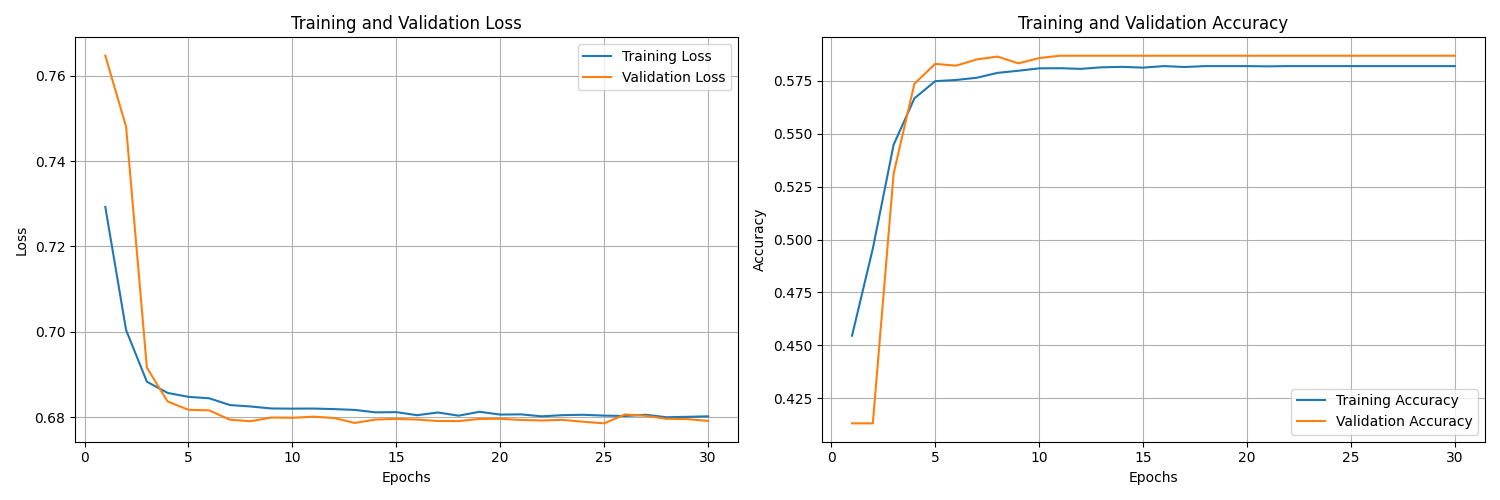
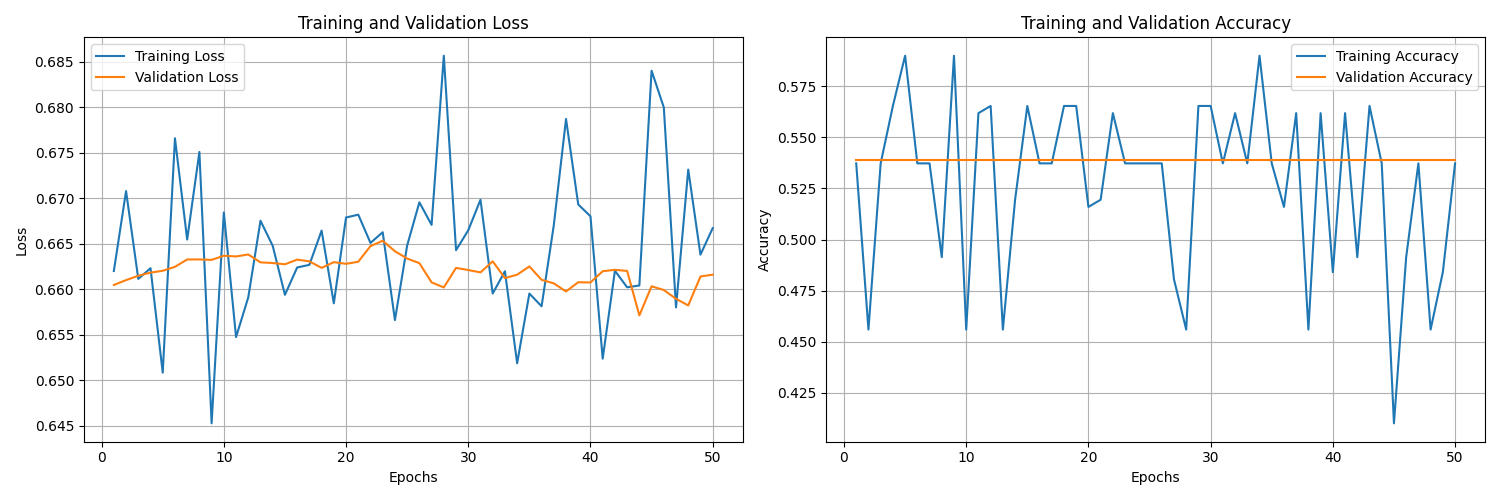
to-do list

diff --git a/NN_with_torch.py b/NN_with_torch.py
@@ -7,6 +7,7 @@ from torch.utils.data import Dataset, DataLoader
 from torchvision import datasets, transforms
 import tqdm
 import matplotlib.pyplot as plt
+import matplotlib.patches as mpatches
 import numpy as np
 import os
 import cv2
@@ -55,19 +56,20 @@ class CustomDataset(Dataset):
 
 # Define the neural network architecture
 class NeuralNetwork(nn.Module):
-    def __init__(self, num_classes, channels, strides):
+    def __init__(self, channels, strides):
         
         # Call the parent class constructor
         super(NeuralNetwork, self).__init__()
         
         # ReLU activation function
-        self.relu = nn.ReLU()
+        # relu6? ##########################################################################################################################
+        self.relu6 = nn.ReLU6()
   
         # Dropout layer to prevent overfitting
         self.dropout = nn.Dropout(0.2)
         
         # intial convolutional layer, followed by batch normalization
-        # the input is a 3-channel image (RGB), and the output is 32 channels (filters)
+        # out cghannels? ###########################################################
         self.conv_init = nn.Conv2d(in_channels=3, out_channels=32, kernel_size=5, stride=2, padding=2)
         self.bn_init = nn.BatchNorm2d(32)
         
@@ -84,7 +86,7 @@ class NeuralNetwork(nn.Module):
         # The depthwise convolution applies a single filter to each input channel, while the pointwise convolution combines the outputs of the depthwise convolution.
         
         # network architecture after initial convolution and final fully connected layer
-        in_channels = 32
+        in_channels = 32 ###################################################################################################################
         for i, (out_channels, stride) in enumerate(zip(channels, strides)):
             
             # Depthwise convolution (separable by channel), followed by batch normalization
@@ -98,9 +100,10 @@ class NeuralNetwork(nn.Module):
             in_channels = out_channels
         
         # Max pooling
+        # in teoria meglio per di avg pooling #####################################################################################################
         self.max_pool = nn.MaxPool2d(kernel_size=2, stride=2)
         
-        # Final layer that maps to the mask (80x80)
+        # Final layer that maps to the mask (80x80) dovrebbe essere ok ##############################################################################
         self.final_conv = nn.Conv2d(in_channels, 1, kernel_size=1)
     
     # forward method defines the flow of data through the network
@@ -110,7 +113,7 @@ class NeuralNetwork(nn.Module):
         # Initial convolution (layer 1)
         x = self.conv_init(x)
         x = self.bn_init(x)
-        x = self.relu(x)
+        x = self.relu6(x)
     
         # Iterate through the depthwise and pointwise convolution layers
         for i in range(len(self.dw_conv_layers)):
@@ -118,17 +121,18 @@ class NeuralNetwork(nn.Module):
             # Depthwise convolution
             x = self.dw_conv_layers[i](x)
             x = self.dw_bn_layers[i](x)
-            x = self.relu(x)
+            x = self.relu6(x)
             
             # Pointwise convolution
             x = self.pw_conv_layers[i](x)
             x = self.pw_bn_layers[i](x)
-            x = self.relu(x)
+            x = self.relu6(x)
             
             # Apply dropout for regularization
             x = self.dropout(x)
         
-        # Global average pooling and reshape to [batch_size, num_classes]
+        # Global average pooling and reshape 
+        # ok ridimensionamento così? ########################################################################################################
         x = nn.functional.interpolate(x, size=(80, 80), mode="bilinear", align_corners=False)  # Ensure output matches 80x80 label dimensions
         
         # Map to the correct number of output classes
@@ -191,16 +195,21 @@ def train_model(model, train_loader, val_loader, criterion, optimizer, num_epoch
             # accumulate the loss for the current batch
             running_loss += loss.item() * inputs.size(0)
             
-            # get the predicted class with the highest score
-            _, predicted = torch.max(outputs.data, 1) # _ is the max value, predicted is the index of the max value
+            # da sistemare ###########################################################################################################
             
-            total += labels.size(0)
-            correct += (predicted == labels).sum().item()       
-            epoch_loss = running_loss / len(train_loader.dataset)
-            epoch_acc = correct / total
+            # Pixel-wise accuracy for binary mask
+            preds = (torch.sigmoid(outputs) > 0.5).float()
+            labels_bin = (labels > 0.5).float()
+            correct += (preds == labels_bin).float().sum().item()
+            total += labels.numel()
             
-            # Update tqdm description with current metrics
-            train_loop.set_description(f"Epoch {epoch+1}/{num_epochs} (Train) Loss: {epoch_loss:.4f}, Acc: {epoch_acc:.4f}")
+            # fino qui ###########################################################################################################
+        
+        epoch_loss = running_loss / len(train_loader.dataset)
+        epoch_acc = correct / total
+        
+        # Update tqdm description with current metrics
+        train_loop.set_description(f"Epoch {epoch+1}/{num_epochs} (Train) Loss: {epoch_loss:.4f}, Acc: {epoch_acc:.4f}")
         
         
         # Validation phase
@@ -227,11 +236,17 @@ def train_model(model, train_loader, val_loader, criterion, optimizer, num_epoch
                 outputs = model(inputs)
                 loss = criterion(outputs, labels)
                 
+                # come prima ##################################################################################################################
+                
                 # Compute the statistics
                 val_loss += loss.item() * inputs.size(0)
-                _, predicted = torch.max(outputs.data, 1)
-                val_total += labels.size(0)
-                val_correct += (predicted == labels).sum().item()
+                # Pixel-wise accuracy for binary mask
+                preds = (torch.sigmoid(outputs) > 0.5).float()
+                labels_bin = (labels > 0.5).float()
+                # fino qui ###################################################################################################################
+
+                val_correct += (preds == labels_bin).float().sum().item()
+                val_total += labels.numel()
             
             val_loss /= len(val_loader.dataset)
             val_acc = val_correct / val_total
@@ -286,72 +301,84 @@ def plot_metrics(train_losses, val_losses, train_accs, val_accs, epochs):
     plt.tight_layout()
     plt.savefig('training_metrics.png')
     plt.show()
-
+    
+     
+    # Da capire se funziona correttamente ##########################################################################################################      
+    
 # plot the image and the prediction
-def plot_prediction(image, actual_label, predicted_label, class_names=None):
+def plot_prediction(image, actual_mask, predicted_mask):
     
-    # Convert image tensor to numpy and denormalize
-    image = image.cpu().squeeze().permute(1, 2, 0).numpy()
+    # Plots the input image, the ground truth mask, and an overlay of ground truth and predicted masks.
+    # Ground truth mask is shown in green, predicted mask in red, and overlap in yellow.
     
-    # Denormalize from [-1, 1] to [0, 1]
-    image = (image * 0.5 + 0.5).clip(0, 1)
-    
-    plt.figure(figsize=(6, 6))
-    plt.imshow(image)
-    
-    # Get class names if available
-    actual_class = f"Class {actual_label}" if class_names is None else class_names[actual_label]
-    predicted_class = f"Class {predicted_label}" if class_names is None else class_names[predicted_label]
-    
-    title = f"Actual: {actual_class}\nPredicted: {predicted_class}"
-    plt.title(title)
-    plt.axis('off')
+    # Prepare image
+    img = image.cpu().squeeze().permute(1, 2, 0).numpy()
+    img = (img * 0.5 + 0.5).clip(0, 1)
+
+    # Prepare masks
+    gt_mask = actual_mask.cpu().squeeze().numpy()
+    pred_mask = predicted_mask.cpu().squeeze().numpy()
+
+    # Ensure masks are binary
+    gt_mask = (gt_mask > 0.5).astype(np.uint8)
+    pred_mask = (pred_mask > 0.5).astype(np.uint8)
+
+    # Overlay: green for GT, red for pred, yellow for overlap
+    overlay = np.zeros((*gt_mask.shape, 3), dtype=np.float32)
+    overlay[(gt_mask == 1) & (pred_mask == 0)] = [0, 1, 0]      # Green: GT only
+    overlay[(gt_mask == 0) & (pred_mask == 1)] = [1, 0, 0]      # Red: Pred only
+    overlay[(gt_mask == 1) & (pred_mask == 1)] = [1, 1, 0]      # Yellow: Overlap
+
+    fig, axs = plt.subplots(1, 3, figsize=(15, 5))
+    axs[0].imshow(img)
+    axs[0].set_title("Input Image")
+    axs[0].axis('off')
+
+    axs[1].imshow(gt_mask, cmap='Greens', alpha=0.7)
+    axs[1].set_title("Ground Truth Mask")
+    axs[1].axis('off')
+
+    axs[2].imshow(img, alpha=0.7)
+    axs[2].imshow(overlay, alpha=0.5)
+    axs[2].set_title("Overlay: GT (Green), Pred (Red), Overlap (Yellow)")
+    axs[2].axis('off')
+
+    # Legend
+    green_patch = mpatches.Patch(color='green', label='Ground Truth')
+    red_patch = mpatches.Patch(color='red', label='Prediction')
+    yellow_patch = mpatches.Patch(color='yellow', label='Overlap')
+    axs[2].legend(handles=[green_patch, red_patch, yellow_patch], loc='lower right')
+
+    plt.tight_layout()
     plt.show()
+    
+    # Fino qui ##########################################################################################################
+
 
 
 # Main execution
 def main():
     
-    
-    # Define Dice Loss function
-    class DiceLoss(nn.Module):
-        
-        def __init__(self):
-            super(DiceLoss, self).__init__()
-    
-        def forward(self, outputs, targets):
-            
-            # Apply sigmoid to outputs
-            outputs = torch.sigmoid(outputs)  
-            
-            # Ensure outputs and targets have the same shape
-            targets = targets.view_as(outputs)  # Reshape targets to match outputs
-            intersection = (outputs * targets).sum()
-            smooth = 1.0
-            dice = (2.0 * intersection + smooth) / (outputs.sum() + targets.sum() + smooth)
-            return 1 - dice
-    
-    
     # Hyperparameters
-    num_classes = 2
-    batch_size = 64
-    learning_rate = 1e-3
-    num_epochs = 10
+    
+    batch_size = 2
+    learning_rate = 1e-4
+    num_epochs = 50
     
     ################################################################################################
     
     # Channel configuration for each block
     # Encoder path (increasing channels, decreasing spatial dimensions)
-    encoder_channels = [16, 32, 64, 128, 256, 512]  # Added more layers for a deeper encoder
-    encoder_strides = [2, 2, 2, 2, 2, 2]  # Added strides for the deeper encoder
+    encoder_channels = [16, 32, 64, 128]  # Added more layers for a deeper encoder
+    encoder_strides = [2, 2, 2, 2]  # Added strides for the deeper encoder
     
     # Bottleneck
-    bottleneck_channels = [512, 256]  # Added an additional bottleneck layer
-    bottleneck_strides = [1, 1]  # Added an additional stride for the deeper bottleneck
+    bottleneck_channels = [256]  # Added an additional bottleneck layer
+    bottleneck_strides = [1]  # Added an additional stride for the deeper bottleneck
            
     # Decoder path (decreasing channels)
-    decoder_channels = [512, 256, 128, 64, 32, 16]  # Added more layers for a deeper decoder
-    decoder_strides = [2, 2, 2, 2, 2, 2]  # Added strides for the deeper decoder
+    decoder_channels = [128, 64, 32, 16]  # Added more layers for a deeper decoder
+    decoder_strides = [2, 2, 2, 2]  # Added strides for the deeper decoder
      
     ################################################################################################# 
         
@@ -359,8 +386,11 @@ def main():
     channels = encoder_channels + bottleneck_channels + decoder_channels
     strides = encoder_strides + bottleneck_strides + decoder_strides
     
-    # Data loading and preprocessing, normalization reduces the com
+    # Scelgo trasformazioni ###########################################################################################à
     transform = transforms.Compose([
+        transforms.RandomHorizontalFlip(),
+        transforms.RandomRotation(degrees=20),
+        transforms.ColorJitter(brightness=0.2, contrast=0.2, saturation=0.2, hue=0.05),
         transforms.ToTensor(),
         transforms.Normalize((0.5, 0.5, 0.5), (0.5, 0.5, 0.5))  # RGB normalization
     ])
@@ -373,6 +403,14 @@ def main():
     # Load image and mask file paths
     img_files = sorted([os.path.join(img_dir, f) for f in os.listdir(img_dir) if f.endswith(".png")])
     mask_files = sorted([os.path.join(mask_dir, f) for f in os.listdir(mask_dir) if f.endswith(".png")])
+    
+    
+    # DEBUG         #######################################################################################################
+    # Limit data to a small subset for intentional overfitting
+    num_samples = 6  # Choose a small number (e.g., 4, 6, or 8)
+    img_files = img_files[:num_samples]
+    mask_files = mask_files[:num_samples]
+    
     
     # Ensure the number of images matches the number of masks
     assert len(img_files) == len(mask_files), "Mismatch between images and masks"
@@ -399,6 +437,7 @@ def main():
             mask = torch.tensor(mask, dtype=torch.float32).unsqueeze(0) / 255.0  # Normalize to [0, 1]
               
             return img, mask
+        
     
     # Create datasets
     dataset = ImageMaskDataset(img_files, mask_files, transform=transform)
@@ -413,8 +452,38 @@ def main():
     train_loader = DataLoader(train_dataset, batch_size=batch_size, shuffle=True)
     val_loader = DataLoader(val_dataset, batch_size=batch_size)
     
+    
+    # Riscrivo la funzione di loss ###########################################################################################
+    # Compute pos_weight for BCE
+    fg = sum((dataset[i][1] > 0.5).sum().item() for i in range(len(dataset)))
+    bg = sum((dataset[i][1] <= 0.5).sum().item() for i in range(len(dataset)))
+    pos_weight = torch.tensor([bg / (fg + 1e-8)])  # Avoid division by zero
+
+
+    # --- Define Dice + weighted BCE Loss function + L1 penalty on predicted mask ---
+    class DiceBCELoss(nn.Module):
+        def __init__(self, alpha=0.5, pos_weight=None, lambda_l1=0.05):
+            super(DiceBCELoss, self).__init__()
+            self.alpha = alpha
+            self.lambda_l1 = lambda_l1
+            self.bce = nn.BCEWithLogitsLoss(pos_weight=pos_weight)
+
+        def forward(self, outputs, targets):
+            bce_loss = self.bce(outputs, targets)
+            outputs_sigmoid = torch.sigmoid(outputs)
+            targets = targets.view_as(outputs_sigmoid)
+            intersection = (outputs_sigmoid * targets).sum()
+            smooth = 1.0
+            dice = (2.0 * intersection + smooth) / (outputs_sigmoid.sum() + targets.sum() + smooth)
+            dice_loss = 1 - dice
+            # L1 penalty on predicted mask (encourages sparsity)
+            l1_penalty = outputs_sigmoid.mean()
+            return self.alpha * bce_loss + (1 - self.alpha) * dice_loss + self.lambda_l1 * l1_penalty
+        
+        # Fino a qui ##########################################################################################################
+
     # Initialize the model
-    model = NeuralNetwork(num_classes, channels, strides).to(device)
+    model = NeuralNetwork(channels, strides).to(device)
     
     # Print model size information
     total_params = sum(p.numel() for p in model.parameters()) # Total number of parameters in the model
@@ -426,7 +495,7 @@ def main():
     print(f"Model size: {model_size_mb:.2f} MB")
     
     # Loss function and optimizer
-    criterion = DiceLoss()
+    criterion = DiceBCELoss(alpha=0.5, pos_weight=pos_weight.to(device), lambda_l1=0.2)
     optimizer = optim.Adam(model.parameters(), lr=learning_rate)
     
     # Train the model
@@ -438,19 +507,18 @@ def main():
     # Example of inference
     model.eval()
     with torch.no_grad():
-        
         # Use a sample from the validation dataset for inference
         example_input, actual_label = next(iter(val_loader))
         example_input = example_input[0].unsqueeze(0).to(device)  # Select the first sample and add batch dimension
         actual_label = actual_label[0].to(device)  # Ensure label is on the same device
-        print(f"Actual label: {actual_label}")
+        print(f"Actual label: {actual_label.shape}")
         output = model(example_input)
         output = torch.sigmoid(output)  # Convert logits to probabilities
         predicted = (output > 0.5).float()  # Threshold to get binary mask
 
         print(f"Predicted mask shape: {predicted.shape}")  # Output the shape of the predicted mask
-            
-            # Plot the image and prediction
+
+        # Plot the image and prediction
         try:
             plot_prediction(example_input[0], actual_label, predicted[0])
         except Exception as e:
